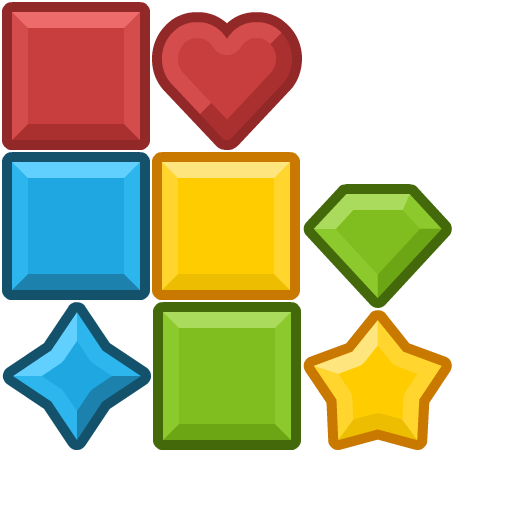
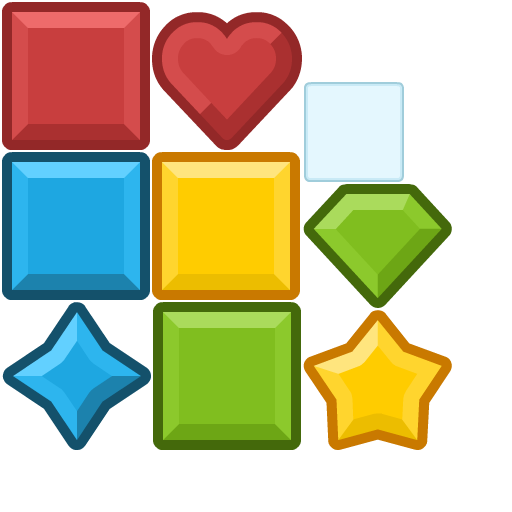
board background

Changed region(s): [[0.5938, 0.1562, 0.8125, 0.375]]

diff --git a/core/src/com/fuzzywave/tetribattle/gameplay/GameInstance.java b/core/src/com/fuzzywave/tetribattle/gameplay/GameInstance.java
@@ -58,9 +58,23 @@ public class GameInstance {
     public void update(float delta) {
         stateMachine.update(delta);
 
+
+        drawBackground(delta);
+
         drawBoard(delta);
 
         drawPiece(delta);
+    }
+
+    private void drawBackground(float delta) {
+        TetriBattle.spriteBatch.begin();
+
+        TetriBattle.assets.glassBackgroundNinePatch.draw(TetriBattle.spriteBatch,
+                                                         drawingRectangle.x - TetriBattle.BOARD_FRAME_PADDING,
+                                                         drawingRectangle.y - TetriBattle.BOARD_FRAME_PADDING,
+                                                         drawingRectangle.width + TetriBattle.BOARD_FRAME_PADDING * 2,
+                                                         drawingRectangle.height + TetriBattle.BOARD_FRAME_PADDING * 2);
+        TetriBattle.spriteBatch.end();
     }
 
     private void drawPiece(float delta) {
@@ -98,7 +112,8 @@ public class GameInstance {
         float xPixel = this.drawingRectangle.x + (x * blockToPixelWidth);// + (blockToPixelWidth / 2);
         float yPixel = this.drawingRectangle.y + (y * blockToPixelHeight);// + (blockToPixelHeight / 2);
 
-        TetriBattle.spriteBatch.draw(textureRegion, xPixel, yPixel, blockToPixelWidth, blockToPixelHeight);
+        TetriBattle.spriteBatch.draw(textureRegion, xPixel, yPixel, blockToPixelWidth,
+                                     blockToPixelHeight);
     }
 
     public Block getBlock(int x, int y) {
@@ -126,13 +141,18 @@ public class GameInstance {
      * @return true, if there is a collision.
      */
     public boolean isColliding(Piece currentPiece, int horizontalMovement, int verticalMovement) {
-        return isColliding(currentPiece.getFirstBlockPosition(), currentPiece.getSecondBlockPosition(), horizontalMovement, verticalMovement);
+        return isColliding(currentPiece.getFirstBlockPosition(),
+                           currentPiece.getSecondBlockPosition(), horizontalMovement,
+                           verticalMovement);
     }
 
 
-    public boolean isColliding(IntArray firstPos, IntArray secondPos, int horizontalMovement, int verticalMovement) {
-        return isColliding(firstPos.get(0) + horizontalMovement, firstPos.get(1) + verticalMovement) ||
-                isColliding(secondPos.get(0) + horizontalMovement, secondPos.get(1) + verticalMovement);
+    public boolean isColliding(IntArray firstPos, IntArray secondPos, int horizontalMovement,
+                               int verticalMovement) {
+        return isColliding(firstPos.get(0) + horizontalMovement,
+                           firstPos.get(1) + verticalMovement) ||
+                isColliding(secondPos.get(0) + horizontalMovement,
+                            secondPos.get(1) + verticalMovement);
     }
 
     /**

diff --git a/core/src/com/fuzzywave/tetribattle/assets/Assets.java b/core/src/com/fuzzywave/tetribattle/assets/Assets.java
@@ -8,6 +8,7 @@ import com.badlogic.gdx.assets.loaders.resolvers.InternalFileHandleResolver;
 import com.badlogic.gdx.assets.loaders.resolvers.ResolutionFileResolver;
 import com.badlogic.gdx.graphics.Texture;
 import com.badlogic.gdx.graphics.g2d.BitmapFont;
+import com.badlogic.gdx.graphics.g2d.NinePatch;
 import com.badlogic.gdx.graphics.g2d.TextureAtlas;
 import com.badlogic.gdx.graphics.g2d.TextureRegion;
 import com.fuzzywave.tetribattle.TetriBattle;
@@ -22,6 +23,9 @@ public class Assets {
     public TextureRegion tileGreenBreakerTextureRegion;
     public TextureRegion tileRedBreakerTextureRegion;
     public TextureRegion tileYellowBreakerTextureRegion;
+
+    public NinePatch glassBackgroundNinePatch;
+
     private AssetManager assetManager;
 
     public Assets() {
@@ -97,13 +101,15 @@ public class Assets {
         tileRedBreakerTextureRegion = textureAtlas.findRegion("tileRedBreaker");
         tileYellowBreakerTextureRegion = textureAtlas.findRegion("tileYellowBreaker");
 
+        glassBackgroundNinePatch = textureAtlas.createPatch("glass_background");
+
         TetriBattle.analytics.endTimedEvent("ASSETS_GET");
     }
 
     public void unloadAssets() {
         TetriBattle.analytics.logEvent("ASSETS_UNLOAD", true);
 
-        assetManager.unload("game.atlas");
+        assetManager.unload("game/game.atlas");
 
         TetriBattle.analytics.endTimedEvent("ASSETS_UNLOAD");
     }

diff --git a/core/src/com/fuzzywave/tetribattle/TetriBattle.java b/core/src/com/fuzzywave/tetribattle/TetriBattle.java
@@ -15,6 +15,8 @@ public class TetriBattle implements ApplicationListener {
     public static final float WORLD_WIDTH_PIXEL = 720;
     public static final float WORLD_HEIGHT_PIXEL = 1280;
 
+    public static final float BOARD_FRAME_PADDING = 4;
+
     public static final float WORLD_WIDTH = 9;
     public static final float WORLD_HEIGHT = 16;
 
